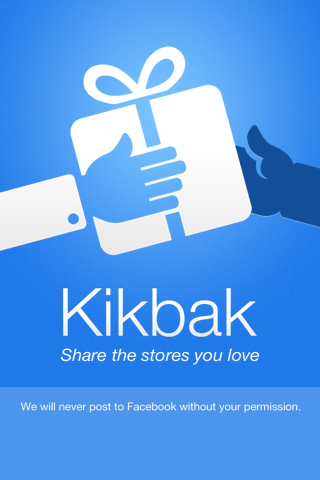
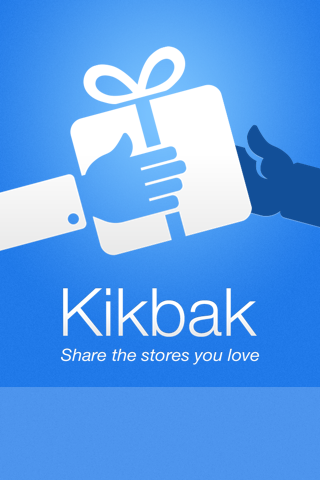
fix facebook strings

Changed region(s): [[0.0625, 0.8438, 0.9375, 0.875]]

diff --git a/iOS/kikbak/Kikbak/LoginViewController.m b/iOS/kikbak/Kikbak/LoginViewController.m
@@ -18,6 +18,7 @@
 @property (strong, nonatomic) IBOutlet UIButton *buttonLoginLogout;
 
 @property (nonatomic,strong) UIImageView* splash;
+@property (nonatomic,strong) UILabel* fbText;
 @property (nonatomic,strong) UIButton* fbLoginBtn;
 
 -(void)createSubviews;
@@ -74,8 +75,17 @@
     self.splash.image = [UIImage imageNamed:@"splash-586h"];
     [self.view addSubview:self.splash];
     
+    self.fbText = [[UILabel alloc]initWithFrame:CGRectMake(11, 436, 298, 62)];
+    self.fbText.numberOfLines = 3;
+    self.fbText.textColor = [UIColor whiteColor];
+    self.fbText.backgroundColor = [UIColor clearColor];
+    self.fbText.textAlignment = NSTextAlignmentCenter;
+    self.fbText.font = [UIFont fontWithName:@"HelveticaNeue" size:12];
+    self.fbText.text = NSLocalizedString(@"FB Text", nil);
+    [self.view addSubview:self.fbText];
+    
     self.fbLoginBtn = [UIButton buttonWithType:UIButtonTypeCustom];
-    self.fbLoginBtn.frame = CGRectMake(11, 489, 298, 40);
+    self.fbLoginBtn.frame = CGRectMake(11, 499, 298, 40);
     [self.fbLoginBtn addTarget:self action:@selector(onFaceBookLogin:) forControlEvents:UIControlEventTouchUpInside];
     [self.fbLoginBtn setBackgroundImage:[UIImage imageNamed:@"btn_facebook"] forState:UIControlStateNormal];
     [self.fbLoginBtn setTitleColor:[UIColor whiteColor] forState:UIControlStateNormal];
@@ -86,14 +96,18 @@
 
 -(void)manuallyLayoutSubviews{
     if(![UIDevice hasFourInchDisplay]){
+        self.fbText.frame = CGRectMake(11, 362, 298, 62);
         self.splash.image = [UIImage imageNamed:@"splash"];
-        self.fbLoginBtn.frame = CGRectMake(11, 403, 298, 40);
+        self.fbLoginBtn.frame = CGRectMake(11, 413, 298, 40);
     }
     
     if( [UIDevice osVersion7orGreater]){
         CGRect fr = self.fbLoginBtn.frame;
         fr.origin.y += [UIApplication sharedApplication].statusBarFrame.size.height;
         self.fbLoginBtn.frame = fr;
+        fr = self.fbText.frame;
+        fr.origin.y += [UIApplication sharedApplication].statusBarFrame.size.height;
+        self.fbText.frame = fr;
     }
 }
 
